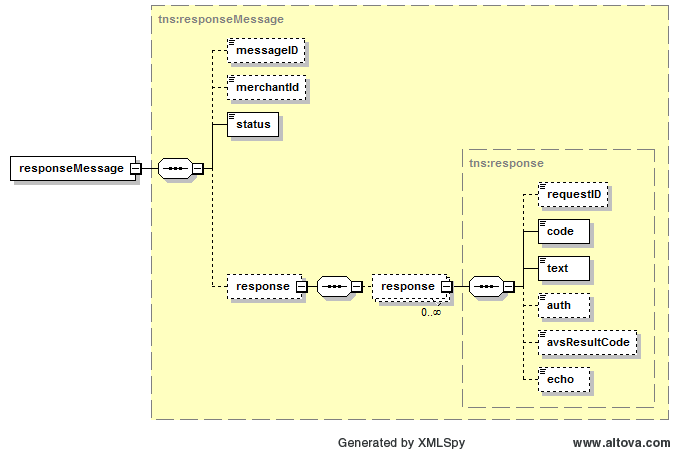
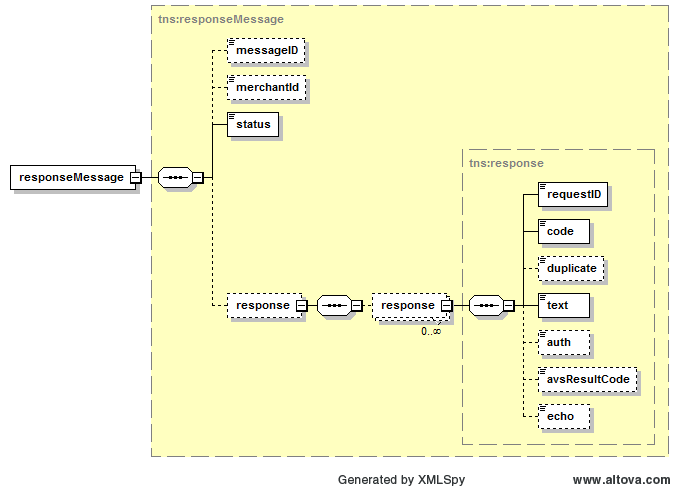
VISTA-69 #time 45m Adding duplicate flag

Changed region(s): [[0.2165, 0.28, 0.9897, 0.9956], [0.2165, 0.0, 0.9897, 0.3111], [0.0, 0.3111, 0.3093, 0.4356]]

diff --git a/vista-paypad/vista-paypad-interface/src/main/java/com/propertyvista/interfaces/payment/Response.java b/vista-paypad/vista-paypad-interface/src/main/java/com/propertyvista/interfaces/payment/Response.java
@@ -13,6 +13,7 @@
  */
 package com.propertyvista.interfaces.payment;
 
+import javax.validation.constraints.NotNull;
 import javax.validation.constraints.Pattern;
 import javax.validation.constraints.Size;
 import javax.xml.bind.annotation.XmlElement;
@@ -24,6 +25,7 @@ public class Response {
      * requestID field of the Request.
      */
     @Size(max = 60)
+    @NotNull
     private String requestID;
 
     /**
@@ -53,6 +55,13 @@ public class Response {
     private String avsResultCode;
 
     /**
+     * If you submitted "RESEND" with the transaction the returned response will contain TRUE if the transaction was a duplicate, or FALSE if not. TRUE means
+     * that you are being shown the original transaction
+     * response.
+     */
+    private Boolean duplicate;
+
+    /**
      * If you submitted a Request with the 'ECHO' field, this field will be present in the reply and will contain the exact data you placed in the ECHO
      * field of the Request.
      */
@@ -60,7 +69,7 @@ public class Response {
     @Pattern(regexp = "[A-Za-z0-9-/]+")
     private String echo;
 
-    @XmlElement(required = false)
+    @XmlElement(required = true)
     public String getRequestID() {
         return requestID;
     }
@@ -103,6 +112,15 @@ public class Response {
         this.avsResultCode = avsResultCode;
     }
 
+    @XmlElement(required = false)
+    public Boolean getDuplicate() {
+        return duplicate;
+    }
+
+    public void setDuplicate(Boolean duplicate) {
+        this.duplicate = duplicate;
+    }
+
     public String getEcho() {
         return echo;
     }
@@ -110,4 +128,5 @@ public class Response {
     public void setEcho(String echo) {
         this.echo = echo;
     }
+
 }

diff --git a/vista-paypad/vista-paypad-server/src/main/java/com/propertyvista/paypad/server/PaymentProcessor.java b/vista-paypad/vista-paypad-server/src/main/java/com/propertyvista/paypad/server/PaymentProcessor.java
@@ -174,6 +174,11 @@ public class PaymentProcessor {
         crequest.setAmount(transactionRequest.getAmount());
         crequest.referenceNumber = transactionRequest.getReference();
 
+        if (Boolean.TRUE.equals(transactionRequest.getResend())) {
+            crequest.resend = "Y";
+            crequest.showDuplicate = "Y";
+        }
+
         switch (transactionRequest.getTxnType()) {
         case Sale:
             crequest.transactionType = CaledonTransactionType.SALE.getValue();
@@ -204,6 +209,14 @@ public class PaymentProcessor {
         response.setText(cresponse.text);
         response.setAuth(cresponse.authorizationNumber);
         response.setEcho(cresponse.echo);
+
+        if (Boolean.TRUE.equals(transactionRequest.getResend())) {
+            if ("Y".equals(cresponse.duplicate)) {
+                response.setDuplicate(Boolean.TRUE);
+            } else if ("N".equals(cresponse.duplicate)) {
+                response.setDuplicate(Boolean.FALSE);
+            }
+        }
 
     }
 }

diff --git a/vista-paypad/vista-paypad-interface/src/main/java/com/propertyvista/interfaces/payment/TransactionRequest.java b/vista-paypad/vista-paypad-interface/src/main/java/com/propertyvista/interfaces/payment/TransactionRequest.java
@@ -76,6 +76,8 @@ public class TransactionRequest extends Request {
      * You can set this field in order to receive the response to an already submitted transaction within the past 48 hours.
      * If the system didn't receive the original transaction, it will be processed as a new transaction. The end result is the same, regardless of the cause of
      * the communications problem. You may resubmit the transaction as many times as necessary in order to receive your response.
+     * 
+     * Your transaction response will contain a flag indicating whether this transaction is a duplicate or not.
      */
     private Boolean resend;
 

diff --git a/vista-shared/vista-payment/src/main/java/com/propertyvista/payment/caledon/CaledonRequest.java b/vista-shared/vista-payment/src/main/java/com/propertyvista/payment/caledon/CaledonRequest.java
@@ -44,6 +44,12 @@ public class CaledonRequest {
     @HttpRequestField("REF")
     public String referenceNumber;
 
+    @HttpRequestField("RESEND")
+    public String resend;
+
+    @HttpRequestField("SHOWDUP")
+    public String showDuplicate;
+
     @HttpRequestField("AMT")
     public String amount;
 

diff --git a/vista-paypad/vista-paypad-domain/src/main/java/com/propertyvista/paypad/domain/RequestLog.java b/vista-paypad/vista-paypad-domain/src/main/java/com/propertyvista/paypad/domain/RequestLog.java
@@ -33,10 +33,13 @@ public interface RequestLog extends IEntity {
 
     IPrimitive<String> transactionType();
 
+    IPrimitive<Boolean> resend();
+
     IPrimitive<Float> amount();
 
     IPrimitive<String> reference();
 
     IPrimitive<String> responseCode();
 
+    IPrimitive<Boolean> duplicate();
 }

diff --git a/vista-shared/vista-payment/src/main/java/com/propertyvista/payment/caledon/CaledonResponse.java b/vista-shared/vista-payment/src/main/java/com/propertyvista/payment/caledon/CaledonResponse.java
@@ -26,4 +26,7 @@ public class CaledonResponse {
 
     @HttpResponseField("ECHO")
     public String echo;
+
+    @HttpResponseField("DUP")
+    public String duplicate;
 }
